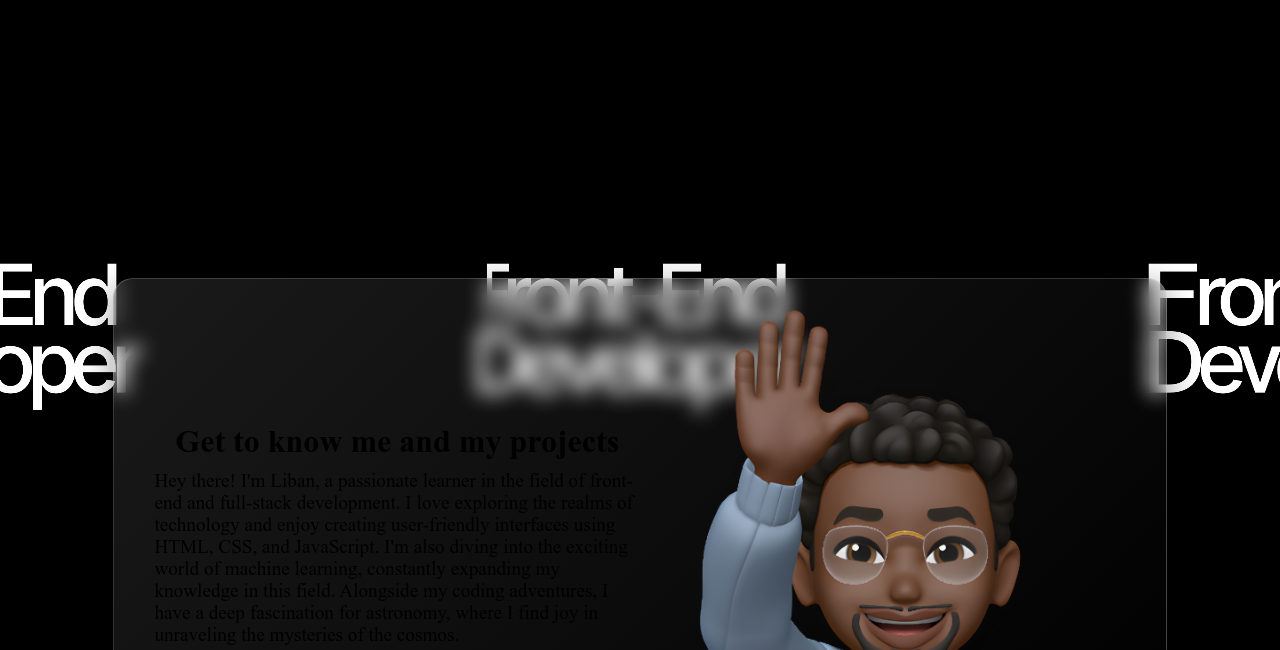
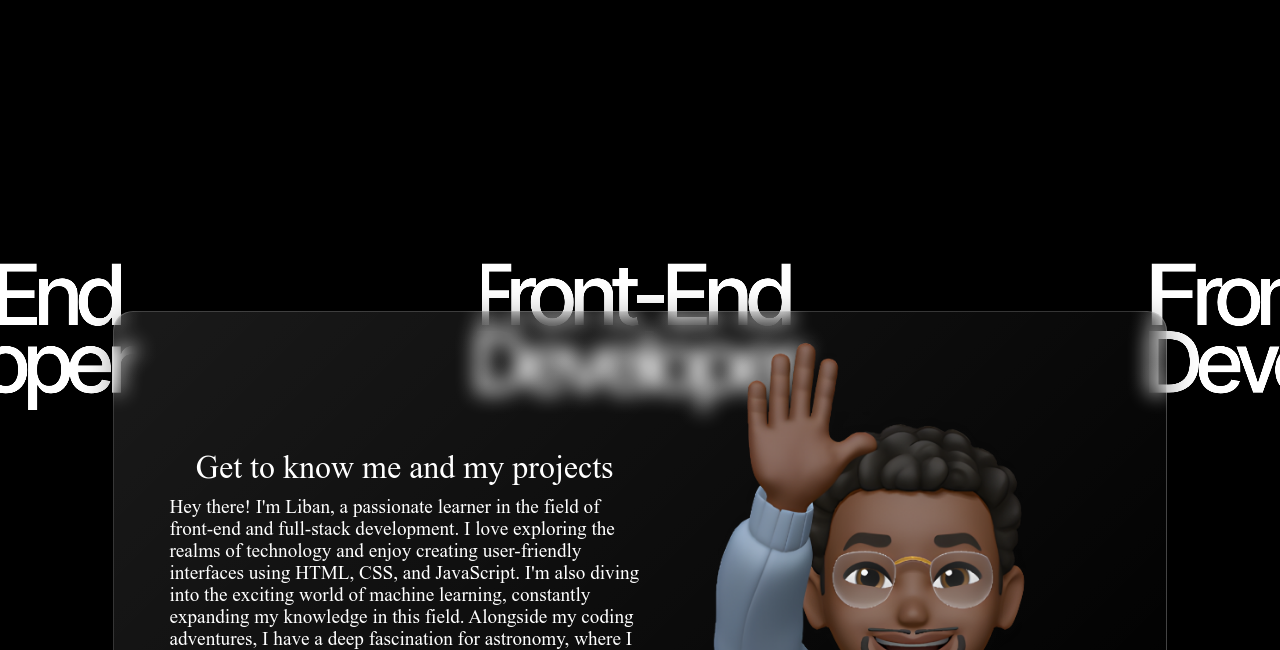
.

diff --git a/css/style.css b/css/style.css
@@ -147,14 +147,14 @@ section {
     margin: 10px;
     font-size: 2em;
     text-align: center;
-    color: white;
+    
 }
 
 .hero-content p {
     margin: 10px 0;
     font-size: 1.2em;
     text-align: space-between;
-    color: white;
+    
 }
 
 .memoji {
